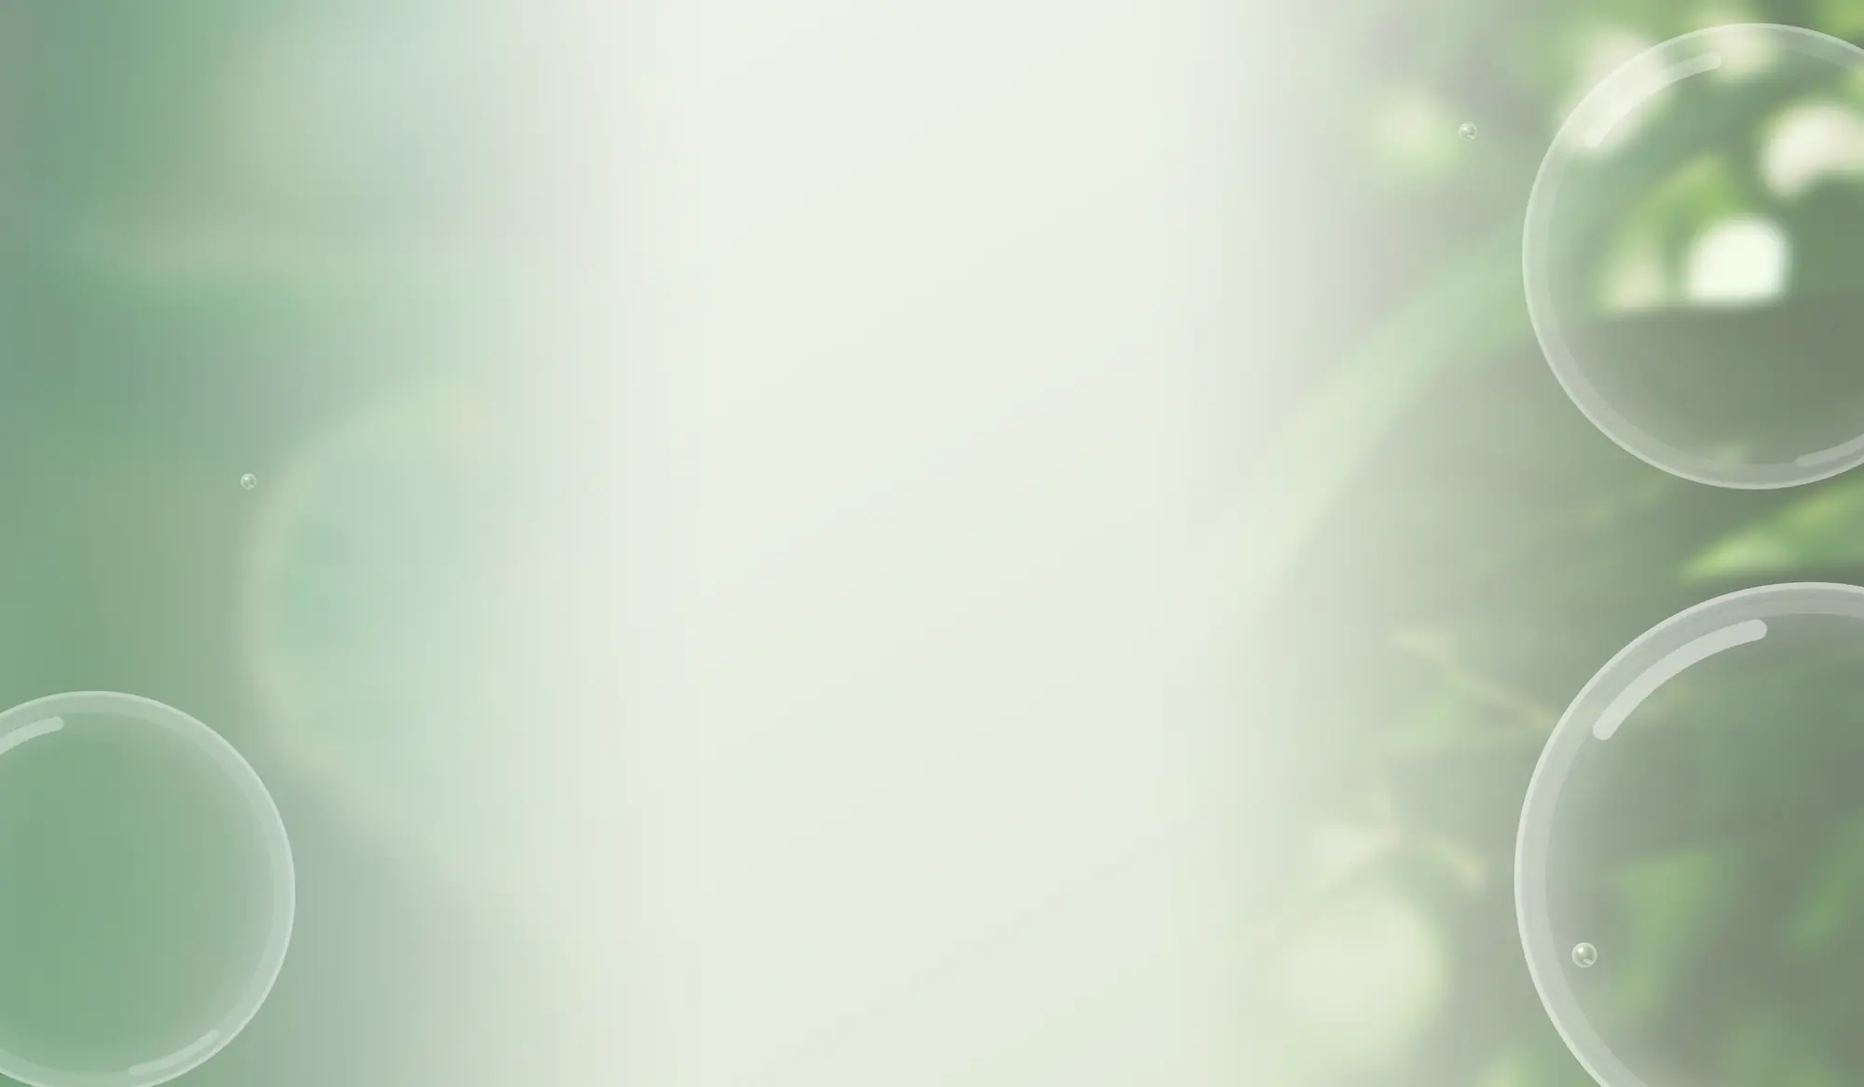
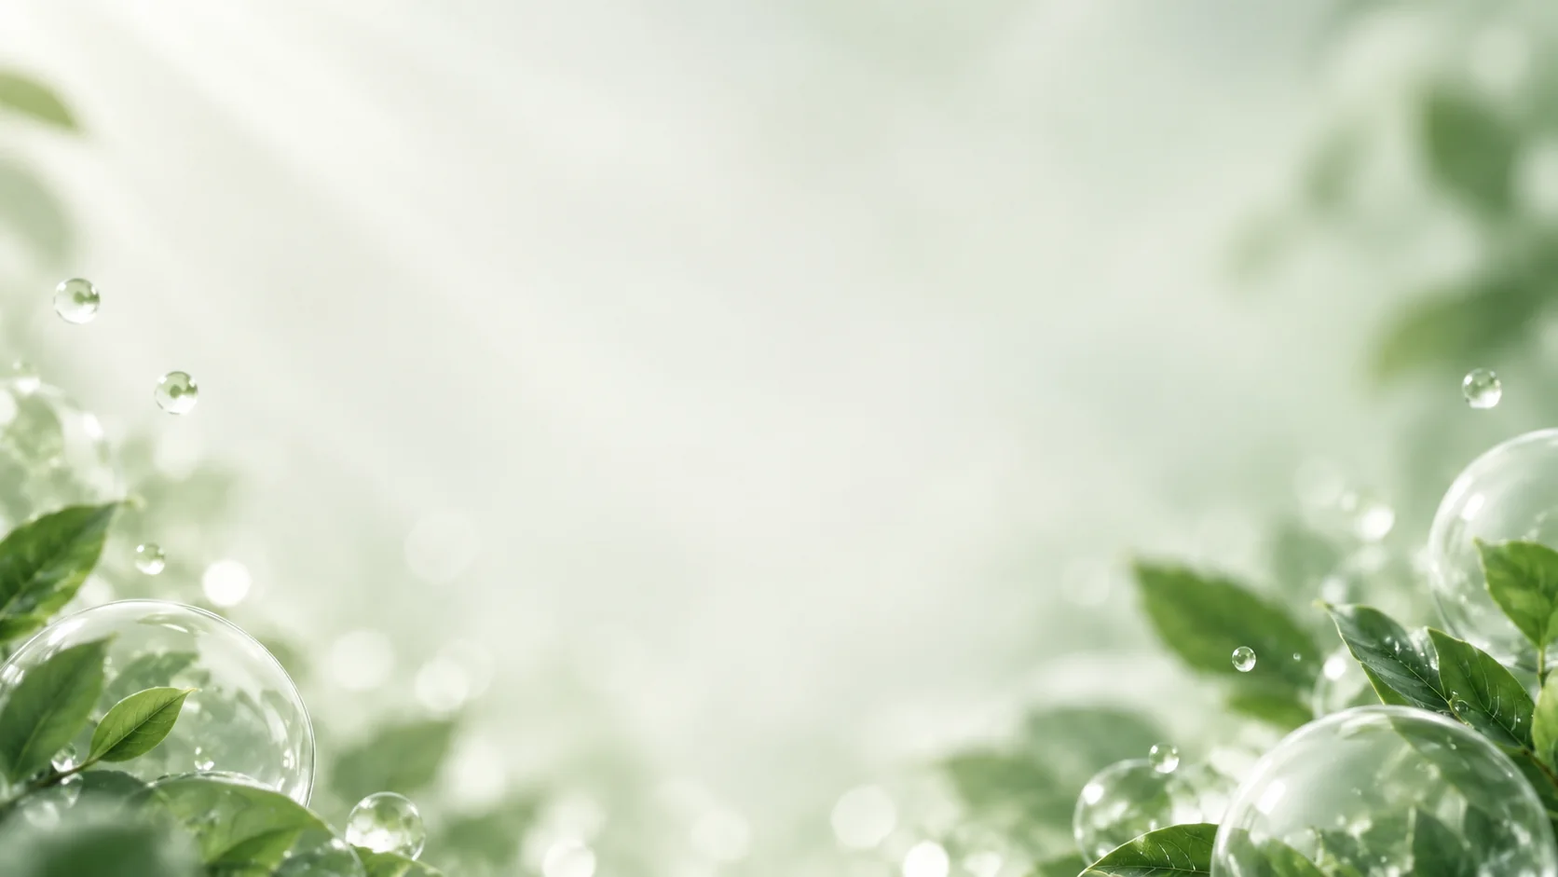
Use client reference backgrounds site-wide, animated mobile menu, Lenis smooth scroll

diff --git a/app/globals.css b/app/globals.css
@@ -15,7 +15,10 @@
   --wrap:1240px; --gut:clamp(20px,4vw,48px);
 }
 *{box-sizing:border-box;margin:0;padding:0;letter-spacing:normal !important}
-html{scroll-behavior:smooth;-webkit-text-size-adjust:100%;scroll-padding-top:110px}
+html{-webkit-text-size-adjust:100%;scroll-padding-top:110px}
+html.lenis,html.lenis body{height:auto}
+.lenis.lenis-smooth{scroll-behavior:auto !important}
+.lenis.lenis-stopped{overflow:hidden}
 body{font-family:"FiraGO",sans-serif;background:var(--bg);color:var(--text);font-size:17px;line-height:1.6;overflow-x:hidden;-webkit-font-smoothing:antialiased}
 img{display:block;max-width:100%}
 button,input{font:inherit;color:inherit}
@@ -40,7 +43,8 @@ h3{font-size:clamp(19px,1.6vw,22px);line-height:1.3;font-weight:500}
 /* sections + leaf plates */
 .section{padding:clamp(80px,9vw,130px) 0}
 .plate{position:relative;isolation:isolate}
-.plate::before{content:"";position:absolute;inset:0;z-index:-1;background:url("/bg/section.webp") center/cover no-repeat;-webkit-mask-image:linear-gradient(to bottom,transparent,#000 16%,#000 84%,transparent);mask-image:linear-gradient(to bottom,transparent,#000 16%,#000 84%,transparent)}
+.plate::before{content:"";position:absolute;inset:0;z-index:-2;background:url("/bg/section.webp") center/cover no-repeat}
+.plate::after{content:"";position:absolute;inset:0;z-index:-1;pointer-events:none;background:linear-gradient(to bottom,var(--bg) 0,rgba(234,239,228,0) 12%,rgba(234,239,228,0) 88%,var(--bg) 100%)}
 .plate.flip::before{transform:scaleX(-1)}
 .sec-head{text-align:center;max-width:780px;margin:0 auto clamp(40px,5vw,64px)}
 .sec-head .lead{margin:18px auto 0}
@@ -54,11 +58,11 @@ h3{font-size:clamp(19px,1.6vw,22px);line-height:1.3;font-weight:500}
 .btn svg{width:18px;height:18px;transition:transform .3s var(--ease)}
 .btn:hover svg{transform:translateX(3px)}
 .btn:active{transform:scale(.97)}
-.btn-forest{background:rgba(27,59,40,.74);color:#fff;border:1px solid rgba(255,255,255,.32);box-shadow:0 14px 26px -14px rgba(27,59,40,.55),inset 0 1px 0 rgba(255,255,255,.22);backdrop-filter:blur(10px);-webkit-backdrop-filter:blur(10px)}
+.btn-forest{background:rgba(27,59,40,.76);color:#fff;border:1px solid rgba(255,255,255,.3);box-shadow:0 14px 26px -14px rgba(27,59,40,.55),inset 0 1px 0 rgba(255,255,255,.22)}
 .btn-forest:hover{background:rgba(27,59,40,.88);transform:translateY(-2px)}
-.btn-ghost{background:rgba(255,255,255,.26);border:1px solid rgba(27,59,40,.2);color:var(--ink);backdrop-filter:blur(10px);-webkit-backdrop-filter:blur(10px)}
+.btn-ghost{background:rgba(255,255,255,.26);border:1px solid rgba(27,59,40,.2);color:var(--ink)}
 .btn-ghost:hover{background:rgba(255,255,255,.6);transform:translateY(-2px)}
-.btn-light{background:rgba(255,255,255,.78);color:var(--forest);border:1px solid rgba(255,255,255,.6);backdrop-filter:blur(10px);-webkit-backdrop-filter:blur(10px);box-shadow:0 14px 30px -16px rgba(0,0,0,.45)}
+.btn-light{background:rgba(255,255,255,.78);color:var(--forest);border:1px solid rgba(255,255,255,.6);box-shadow:0 14px 30px -16px rgba(0,0,0,.35)}
 .btn-light:hover{transform:translateY(-2px)}
 .badge-ic{width:64px;height:64px;border-radius:50%;flex:none;display:grid;place-items:center;color:var(--forest);background:radial-gradient(circle at 34% 28%,#fff 0,#E6EFDC 55%,#CFDDC2 100%);box-shadow:inset 0 -6px 12px rgba(79,127,75,.16),0 8px 18px -10px rgba(34,66,42,.5)}
 .badge-ic svg{width:28px;height:28px}
@@ -75,7 +79,8 @@ h3{font-size:clamp(19px,1.6vw,22px);line-height:1.3;font-weight:500}
 .nav-cta{min-height:50px;padding:0 26px}
 .burger{display:none;width:48px;height:48px;border-radius:50%;place-items:center;color:var(--ink)}
 .burger svg{width:26px;height:26px}
-.mnav{position:fixed;inset:0;z-index:90;padding:20px var(--gut) 32px;background:var(--bg) url("/bg/hero-m.webp") center/cover no-repeat;display:flex;flex-direction:column;gap:20px}
+.mnav{position:fixed;inset:0;z-index:90;padding:14px var(--gut) 24px;background:rgba(234,239,228,.72);-webkit-backdrop-filter:blur(14px);backdrop-filter:blur(14px);overflow:auto}
+.mnav-panel{min-height:calc(100svh - 38px);border-radius:32px;padding:14px 20px 28px;display:flex;flex-direction:column;gap:20px;background:url("/bg/section.webp") center/cover no-repeat;border:1px solid var(--white-line);box-shadow:var(--shadow)}
 .mnav-top{display:flex;align-items:center;justify-content:space-between;min-height:56px}
 .mnav-links{display:flex;flex-direction:column;margin-top:8px;flex:1}
 .m-link{padding:18px 4px;font-size:24px;font-weight:500;color:var(--ink);border-bottom:1px solid var(--line)}
@@ -83,7 +88,7 @@ h3{font-size:clamp(19px,1.6vw,22px);line-height:1.3;font-weight:500}
 
 /* hero */
 .hero{position:relative;isolation:isolate;min-height:max(740px,100svh);padding:150px 0 90px;display:flex;align-items:center;overflow:hidden}
-.hero-bg{position:absolute;inset:0;z-index:-2;background:url("/bg/hero.webp") 70% center/cover no-repeat}
+.hero-bg{position:absolute;inset:0;z-index:-2;background:url("/bg/hero.webp") 62% center/cover no-repeat}
 .hero::after{content:"";position:absolute;left:0;right:0;bottom:0;height:140px;z-index:-1;background:linear-gradient(to bottom,transparent,var(--bg))}
 .hero-in{position:static;width:100%}
 .hero-copy{max-width:640px}
@@ -203,16 +208,16 @@ h3{font-size:clamp(19px,1.6vw,22px);line-height:1.3;font-weight:500}
 .gcard h4{font-size:18px;margin-bottom:12px}
 .gcard li{font-size:15px;padding:5px 0;color:var(--text)}
 
-/* dark banner + footer */
-.banner,.ftr{position:relative;isolation:isolate;background:#10261A url("/bg/dark.webp") center/cover no-repeat;color:#fff}
-.banner{padding:clamp(90px,10vw,150px) 0;text-align:center}
-.bn-in{max-width:880px;margin:0 auto}
-.quote{font-size:clamp(16px,1.5vw,20px);color:#CFE0BD;margin-bottom:18px}
-.banner h2,.ftr h2{color:#fff;font-size:clamp(34px,5vw,68px);line-height:1.1}
-.banner h2 em{font-style:normal;color:#C6E2A8}
-.feats{display:grid;grid-template-columns:repeat(3,1fr);gap:14px;margin:44px 0 40px}
-.feat{display:flex;align-items:center;gap:14px;text-align:left;padding:16px 20px;border-radius:24px;background:rgba(255,255,255,.09);border:1px solid rgba(255,255,255,.2);font-weight:500;font-size:15.5px;line-height:1.35}
-.feat i{width:46px;height:46px;border-radius:50%;flex:none;display:grid;place-items:center;background:rgba(255,255,255,.14)}
+/* banner */
+.banner{padding:clamp(90px,10vw,150px) 0}
+.banner::before{background-image:url("/bg/hero.webp");background-position:62% center}
+.bn-in{max-width:560px}
+.quote{font-size:clamp(15px,1.3vw,18px);color:var(--sage);margin-bottom:16px;font-weight:500}
+.banner h2{font-size:clamp(34px,4.2vw,58px);line-height:1.12;color:var(--forest)}
+.banner h2 em{font-style:normal;color:var(--leaf)}
+.feats{display:grid;gap:12px;margin:36px 0 36px;max-width:440px}
+.feat{display:flex;align-items:center;gap:14px;padding:14px 20px;border-radius:24px;background:linear-gradient(145deg,rgba(255,255,255,.62),rgba(255,255,255,.3));border:1px solid var(--white-line);box-shadow:var(--shadow),inset 0 1px 0 rgba(255,255,255,.9);color:var(--ink);font-weight:500;font-size:15.5px;line-height:1.35}
+.feat i{width:46px;height:46px;border-radius:50%;flex:none;display:grid;place-items:center;color:var(--forest);background:radial-gradient(circle at 34% 28%,#fff,#DCE7D1)}
 .feat svg{width:22px;height:22px}
 
 /* reviews */
@@ -249,25 +254,25 @@ h3{font-size:clamp(19px,1.6vw,22px);line-height:1.3;font-weight:500}
 
 /* footer */
 .ftr{padding:clamp(90px,10vw,140px) 0 36px}
-.final{text-align:center;display:grid;justify-items:center;gap:32px;padding-bottom:clamp(70px,8vw,110px);border-bottom:1px solid rgba(255,255,255,.16)}
-.ftr-grid{display:grid;grid-template-columns:1.3fr 1fr 1fr 1.4fr;gap:40px;padding:56px 0}
-.ftr-grid p{color:rgba(255,255,255,.72);margin-top:16px;max-width:30ch;font-size:15px}
-.ftr h4{color:#CFE0BD;font-size:15px;margin-bottom:16px}
+.final{text-align:center;display:grid;justify-items:center;gap:32px;padding-bottom:clamp(60px,7vw,100px);border-bottom:1px solid var(--line)}
+.final h2{font-size:clamp(32px,4.6vw,64px);line-height:1.1;color:var(--forest)}
+.ftr-grid{display:grid;grid-template-columns:1.3fr 1fr 1fr 1.4fr;gap:40px;padding:40px;margin:48px 0 28px;border-radius:32px;background:linear-gradient(145deg,rgba(255,255,255,.7),rgba(255,255,255,.42));border:1px solid var(--white-line);box-shadow:var(--shadow),inset 0 1px 0 rgba(255,255,255,.9)}
+.ftr-grid p{color:var(--text);margin-top:16px;max-width:30ch;font-size:15px}
+.ftr h4{color:var(--ink);font-size:15px;margin-bottom:16px}
 .ftr li{margin-bottom:10px;font-size:15px}
-.ftr li a{color:rgba(255,255,255,.82)}
-.ftr li a:hover{color:#fff}
+.ftr li a{color:var(--text)}
+.ftr li a:hover{color:var(--forest)}
 .news{display:flex;gap:8px}
-.news input{background:rgba(255,255,255,.1);border:1px solid rgba(255,255,255,.22);box-shadow:none;color:#fff;min-height:52px}
-.news input::placeholder{color:rgba(255,255,255,.6)}
-.news button{width:52px;height:52px;border-radius:50%;background:rgba(255,255,255,.82);color:var(--forest);display:grid;place-items:center;flex:none}
+.news input{flex:1;min-width:0;min-height:52px;border-radius:99px;padding:0 22px;font-size:16px;background:rgba(255,255,255,.55);border:1px solid var(--white-line);box-shadow:none;color:var(--ink)}
+.news input::placeholder{color:var(--muted)}
+.news button{width:52px;height:52px;border-radius:50%;background:rgba(27,59,40,.76);color:#fff;display:grid;place-items:center;flex:none}
 .news button svg{width:20px;height:20px}
-.ftr .chip{background:rgba(255,255,255,.1);border-color:rgba(255,255,255,.22);color:#fff}
-.ftr-bot{display:flex;justify-content:space-between;gap:16px;flex-wrap:wrap;padding-top:24px;border-top:1px solid rgba(255,255,255,.16);font-size:13.5px;color:rgba(255,255,255,.6)}
+.ftr-bot{display:flex;justify-content:space-between;gap:16px;flex-wrap:wrap;padding-top:24px;border-top:1px solid var(--line);font-size:13.5px;color:var(--muted)}
 
 /* checkout */
 .ov{position:fixed;inset:0;z-index:100;background:rgba(15,32,22,.62);display:flex;align-items:center;justify-content:center;padding:16px}
 .modal{background:#F1F5EC;width:100%;max-width:900px;max-height:calc(100svh - 32px);overflow:auto;border-radius:34px;display:grid;grid-template-columns:.9fr 1.1fr;position:relative}
-.m-sum{background:#10261A url("/bg/dark.webp") center/cover;color:#fff;padding:38px;border-radius:34px 0 0 34px;display:flex;flex-direction:column;gap:16px}
+.m-sum{background:linear-gradient(160deg,#1f4a32,#12281b);color:#fff;padding:38px;border-radius:34px 0 0 34px;display:flex;flex-direction:column;gap:16px}
 .m-sum h3{font-size:26px;color:#fff}
 .m-sum .ticks li{font-size:15px}
 .m-sum .ticks svg{color:#CFE6B6;background:rgba(255,255,255,.12)}
@@ -317,17 +322,15 @@ h3{font-size:clamp(19px,1.6vw,22px);line-height:1.3;font-weight:500}
 }
 @media (max-width:900px){
   .hero{min-height:0;padding:128px 0 56px;display:block}
-  .hero-bg{background-image:url("/bg/hero-m.webp");background-position:60% top}
-    .hero::before{content:"";position:absolute;inset:0;z-index:-1;background:linear-gradient(100deg,rgba(236,241,230,.88) 0,rgba(236,241,230,.7) 45%,rgba(236,241,230,0) 92%)}
-  .hero-copy{max-width:520px}
+  .hero-bg{background-image:url("/bg/hero-m.webp");background-position:center bottom;background-size:cover}
+    .hero-copy{max-width:520px}
   .hero-cards{position:static;display:grid;gap:14px;margin-top:34px;max-width:520px;pointer-events:auto}
   .hcard{position:relative;inset:auto;width:auto !important}
   .hero-points{flex-wrap:wrap;gap:16px 22px}
   .plans{grid-template-columns:1fr;max-width:520px}
   .plan.pop{margin-top:6px}
-  .tgrid,.wk-grid,.feats{grid-template-columns:1fr}
+  .tgrid,.wk-grid{grid-template-columns:1fr}
   .tgrid,.wk-grid{max-width:560px;margin-left:auto;margin-right:auto}
-  .feats{max-width:420px;margin-left:auto;margin-right:auto}
   .modal{grid-template-columns:1fr}
   .m-sum{border-radius:34px 34px 0 0;padding:28px}
   .m-form{padding:24px}
@@ -347,11 +350,12 @@ h3{font-size:clamp(19px,1.6vw,22px);line-height:1.3;font-weight:500}
   .ring{width:92px;height:92px}
   .ring b{font-size:22px}
   .hc-in{padding:20px}
-  .ftr-grid{grid-template-columns:1fr;gap:32px}
+  .ftr-grid{grid-template-columns:1fr;gap:32px;padding:26px}
   .wait{flex-direction:column}
   .wait .btn{width:100%}
   .row2{grid-template-columns:1fr 1fr}
   .pay-note{gap:16px}
   .final .btn{width:100%;max-width:340px}
+  .banner::before{background-position:78% center}
 }
 @media (prefers-reduced-motion:reduce){*{animation:none !important;transition-duration:.01ms !important;scroll-behavior:auto !important}}

diff --git a/components/Header.js b/components/Header.js
@@ -64,15 +64,19 @@ export default function Header() {
       </header>
       <AnimatePresence>
         {open && (
-          <motion.div className="mnav" initial={{ opacity: 0 }} animate={{ opacity: 1 }} exit={{ opacity: 0 }} transition={{ duration: 0.25 }}>
-            <div className="mnav-top">
-              <span className="logo"><img src="/img/logo.png" alt="Bloomsize" /></span>
-              <button className="burger" aria-label="დახურვა" style={{ display: "inline-flex" }} onClick={() => setOpen(false)}><Close /></button>
-            </div>
-            <div className="mnav-links">
-              {LINKS.map(([h, t]) => (<a key={h} href={h} className="m-link" onClick={() => setOpen(false)}>{t}</a>))}
-            </div>
-            <button className="btn btn-forest" onClick={() => { setOpen(false); openCheckout("plus"); }}>დაიწყე გზა <Arrow /></button>
+          <motion.div className="mnav" data-lenis-prevent initial={{ opacity: 0 }} animate={{ opacity: 1 }} exit={{ opacity: 0, transition: { duration: 0.3, delay: 0.1 } }} transition={{ duration: 0.4, ease: [0.22, 1, 0.36, 1] }}>
+            <motion.div className="mnav-panel" initial={{ opacity: 0, y: -28, scale: 0.97 }} animate={{ opacity: 1, y: 0, scale: 1 }} exit={{ opacity: 0, y: -18, scale: 0.98 }} transition={{ duration: 0.55, ease: [0.22, 1, 0.36, 1] }}>
+              <div className="mnav-top">
+                <span className="logo"><img src="/img/logo.png" alt="Bloomsize" /></span>
+                <button className="burger" aria-label="დახურვა" style={{ display: "inline-flex" }} onClick={() => setOpen(false)}><Close /></button>
+              </div>
+              <div className="mnav-links">
+                {LINKS.map(([h, t], i) => (
+                  <motion.a key={h} href={h} className="m-link" onClick={() => setOpen(false)} initial={{ opacity: 0, y: 22 }} animate={{ opacity: 1, y: 0 }} transition={{ duration: 0.6, delay: 0.12 + i * 0.06, ease: [0.22, 1, 0.36, 1] }}>{t}</motion.a>
+                ))}
+              </div>
+              <motion.button className="btn btn-forest" onClick={() => { setOpen(false); openCheckout("plus"); }} initial={{ opacity: 0, y: 22 }} animate={{ opacity: 1, y: 0 }} transition={{ duration: 0.6, delay: 0.14 + LINKS.length * 0.06, ease: [0.22, 1, 0.36, 1] }}>დაიწყე გზა <Arrow /></motion.button>
+            </motion.div>
           </motion.div>
         )}
       </AnimatePresence>

diff --git a/components/Hero.js b/components/Hero.js
@@ -1,14 +1,12 @@
 "use client";
-import { motion, useReducedMotion } from "framer-motion";
+import { motion } from "framer-motion";
 import { Arrow, Check, Leaf, Heart, Sprout } from "./Icons";
 import { useApp } from "./Providers";
 
 const up = (d) => ({ initial: { opacity: 0, y: 28 }, animate: { opacity: 1, y: 0 }, transition: { duration: 0.9, delay: d, ease: [0.16, 1, 0.3, 1] } });
 
 export default function Hero() {
-  const reduce = useReducedMotion();
   const { openCheckout } = useApp();
-  const float = (d) => (reduce ? {} : { animate: { y: [0, -8, 0] }, transition: { duration: 7, repeat: Infinity, ease: "easeInOut", delay: d } });
 
   return (
     <section className="hero" id="top">
@@ -36,7 +34,7 @@ export default function Hero() {
 
         <div className="hero-cards">
           <motion.div className="hcard hc-ring" {...up(0.55)}>
-            <motion.div className="hc-in" {...float(0)}>
+            <div className="hc-in">
               <div className="ring" role="img" aria-label="72 პროცენტი">
                 <svg viewBox="0 0 100 100"><circle cx="50" cy="50" r="42" className="r-bg" /><circle cx="50" cy="50" r="42" className="r-fg" pathLength="100" strokeDasharray="72 100" /></svg>
                 <b className="num">72%</b>
@@ -49,15 +47,15 @@ export default function Hero() {
                   <li><span><Check /></span>ხანგრძლივი შედეგი</li>
                 </ul>
               </div>
-            </motion.div>
+            </div>
           </motion.div>
           <motion.div className="hcard hc-prog" {...up(0.7)}>
-            <motion.div className="hc-in" {...float(1.6)}>
+            <div className="hc-in">
               <span className="hc-leaf"><Leaf /></span>
               <h3>პროგრესი სხვანაირად იგრძნობა</h3>
               <p>პატარა ნაბიჯები.<br />დიდი ცვლილებები.</p>
               <div className="bars" aria-hidden="true"><i /><i /><i /><i /></div>
-            </motion.div>
+            </div>
           </motion.div>
         </div>
       </div>

diff --git a/components/Providers.js b/components/Providers.js
@@ -1,5 +1,6 @@
 "use client";
-import { createContext, useContext, useState, useCallback } from "react";
+import { createContext, useContext, useState, useCallback, useEffect } from "react";
+import Lenis from "lenis";
 import { AnimatePresence, motion } from "framer-motion";
 import Checkout from "./Checkout";
 import { Check } from "./Icons";
@@ -16,6 +17,24 @@ export default function Providers({ children }) {
     setTimeout(() => setMsg(""), 4200);
   }, []);
   const close = useCallback(() => setPlan(null), []);
+
+  useEffect(() => {
+    if (window.matchMedia("(prefers-reduced-motion: reduce)").matches) return;
+    const lenis = new Lenis({ lerp: 0.09, wheelMultiplier: 0.9, smoothWheel: true });
+    let raf;
+    const loop = (t) => { lenis.raf(t); raf = requestAnimationFrame(loop); };
+    raf = requestAnimationFrame(loop);
+    const onClick = (e) => {
+      const a = e.target.closest && e.target.closest('a[href^="#"]');
+      if (!a) return;
+      const el = a.getAttribute("href") === "#top" ? 0 : document.querySelector(a.getAttribute("href"));
+      if (el === null) return;
+      e.preventDefault();
+      lenis.scrollTo(el, { offset: el === 0 ? 0 : -96, duration: 1.4, easing: (x) => 1 - Math.pow(1 - x, 4) });
+    };
+    document.addEventListener("click", onClick);
+    return () => { cancelAnimationFrame(raf); document.removeEventListener("click", onClick); lenis.destroy(); };
+  }, []);
 
   return (
     <Ctx.Provider value={{ openCheckout: (id) => setPlan(id), toast }}>

diff --git a/components/Checkout.js b/components/Checkout.js
@@ -49,8 +49,8 @@ export default function Checkout({ planId, onClose, onDone }) {
   );
 
   return (
-    <motion.div className="ov" initial={{ opacity: 0 }} animate={{ opacity: 1 }} exit={{ opacity: 0 }} transition={{ duration: 0.25 }} onMouseDown={(e) => e.target === e.currentTarget && onClose()}>
-      <motion.div className="modal" role="dialog" aria-modal="true" aria-label="გადახდა" initial={{ opacity: 0, y: 40, scale: 0.97 }} animate={{ opacity: 1, y: 0, scale: 1 }} exit={{ opacity: 0, y: 20 }} transition={{ duration: 0.4, ease: [0.16, 1, 0.3, 1] }}>
+    <motion.div className="ov" data-lenis-prevent initial={{ opacity: 0 }} animate={{ opacity: 1 }} exit={{ opacity: 0 }} transition={{ duration: 0.25 }} onMouseDown={(e) => e.target === e.currentTarget && onClose()}>
+      <motion.div className="modal" role="dialog" aria-modal="true" data-lenis-prevent aria-label="გადახდა" initial={{ opacity: 0, y: 40, scale: 0.97 }} animate={{ opacity: 1, y: 0, scale: 1 }} exit={{ opacity: 0, y: 20 }} transition={{ duration: 0.4, ease: [0.16, 1, 0.3, 1] }}>
         <button className="m-close" aria-label="დახურვა" onClick={onClose}><Close /></button>
         {paid ? (
           <div className="done">

diff --git a/components/Banner.js b/components/Banner.js
@@ -6,7 +6,7 @@ import { useApp } from "./Providers";
 export default function Banner() {
   const { openCheckout } = useApp();
   return (
-    <section className="banner on-dark">
+    <section className="plate banner">
       <div className="wrap">
         <div className="bn-in">
           <Reveal as="p" className="quote">სასურველი ცხოვრება არ გვჩუქდება — მას ვქმნით.</Reveal>
@@ -16,7 +16,7 @@ export default function Banner() {
             <Reveal className="feat" delay={0.18}><i><Trend /></i>რეალური, ხანგრძლივი შედეგი</Reveal>
             <Reveal className="feat" delay={0.26}><i><Heart /></i>მხარდაჭერა ყოველ ნაბიჯზე</Reveal>
           </div>
-          <Reveal delay={0.3}><button className="btn btn-light" onClick={() => openCheckout("plus")}>დაიწყე ახლავე <Arrow /></button></Reveal>
+          <Reveal delay={0.3}><button className="btn btn-forest" onClick={() => openCheckout("plus")}>დაიწყე ახლავე <Arrow /></button></Reveal>
         </div>
       </div>
     </section>

diff --git a/components/Footer.js b/components/Footer.js
@@ -13,15 +13,15 @@ export default function Footer() {
     setEmail(""); toast("გამოწერა დაფიქსირდა");
   };
   return (
-    <footer className="ftr on-dark">
+    <footer className="plate flip ftr">
       <div className="wrap">
         <div className="final">
           <Reveal as="h2">იპოვე შენი გეგმა დღესვე</Reveal>
-          <Reveal delay={0.1}><button className="btn btn-light" onClick={() => openCheckout("plus")}>დაიწყე ახლავე <Arrow /></button></Reveal>
+          <Reveal delay={0.1}><button className="btn btn-forest" onClick={() => openCheckout("plus")}>დაიწყე ახლავე <Arrow /></button></Reveal>
         </div>
         <div className="ftr-grid">
           <div>
-            <span className="logo"><img src="/img/logo-light.png" alt="Bloomsize" width="170" height="48" /></span>
+            <span className="logo"><img src="/img/logo.png" alt="Bloomsize" width="170" height="48" /></span>
             <p>ჯანსაღი კვება, რომელიც შენს რიტმს მოერგება.</p>
           </div>
           <div>

diff --git a/components/Reveal.js b/components/Reveal.js
@@ -1,7 +1,7 @@
 "use client";
 import { motion, useReducedMotion } from "framer-motion";
 
-export default function Reveal({ children, delay = 0, y = 32, className, as = "div", ...rest }) {
+export default function Reveal({ children, delay = 0, y = 22, className, as = "div", ...rest }) {
   const reduce = useReducedMotion();
   const M = motion[as];
   return (
@@ -9,8 +9,8 @@ export default function Reveal({ children, delay = 0, y = 32, className, as = "d
       className={className}
       initial={{ opacity: 0, y: reduce ? 0 : y }}
       whileInView={{ opacity: 1, y: 0 }}
-      viewport={{ once: true, amount: 0.12 }}
-      transition={{ duration: 0.8, delay, ease: [0.16, 1, 0.3, 1] }}
+      viewport={{ once: true, amount: 0.08, margin: "0px 0px -6% 0px" }}
+      transition={{ duration: 1.1, delay, ease: [0.22, 1, 0.36, 1] }}
       {...rest}
     >
       {children}
